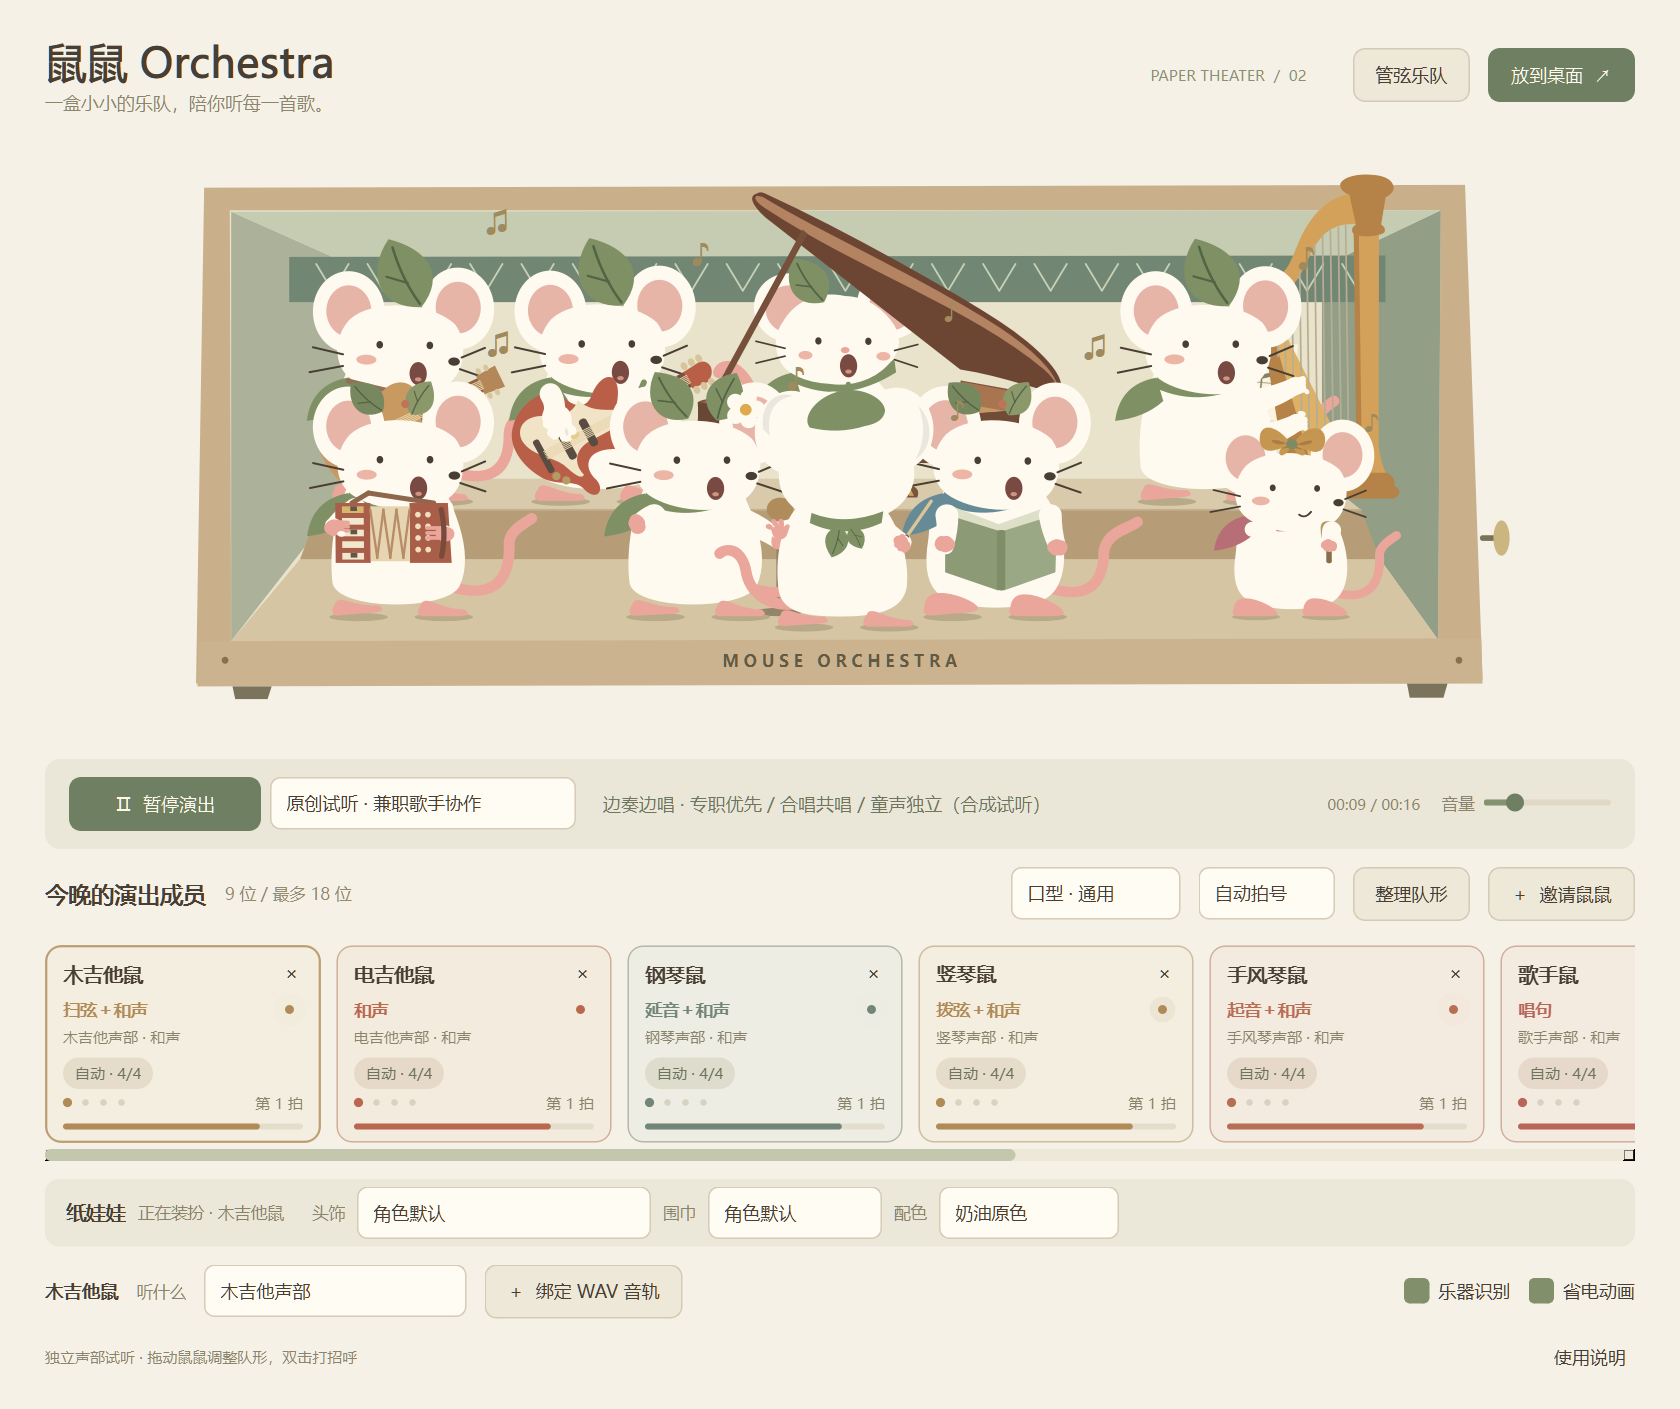
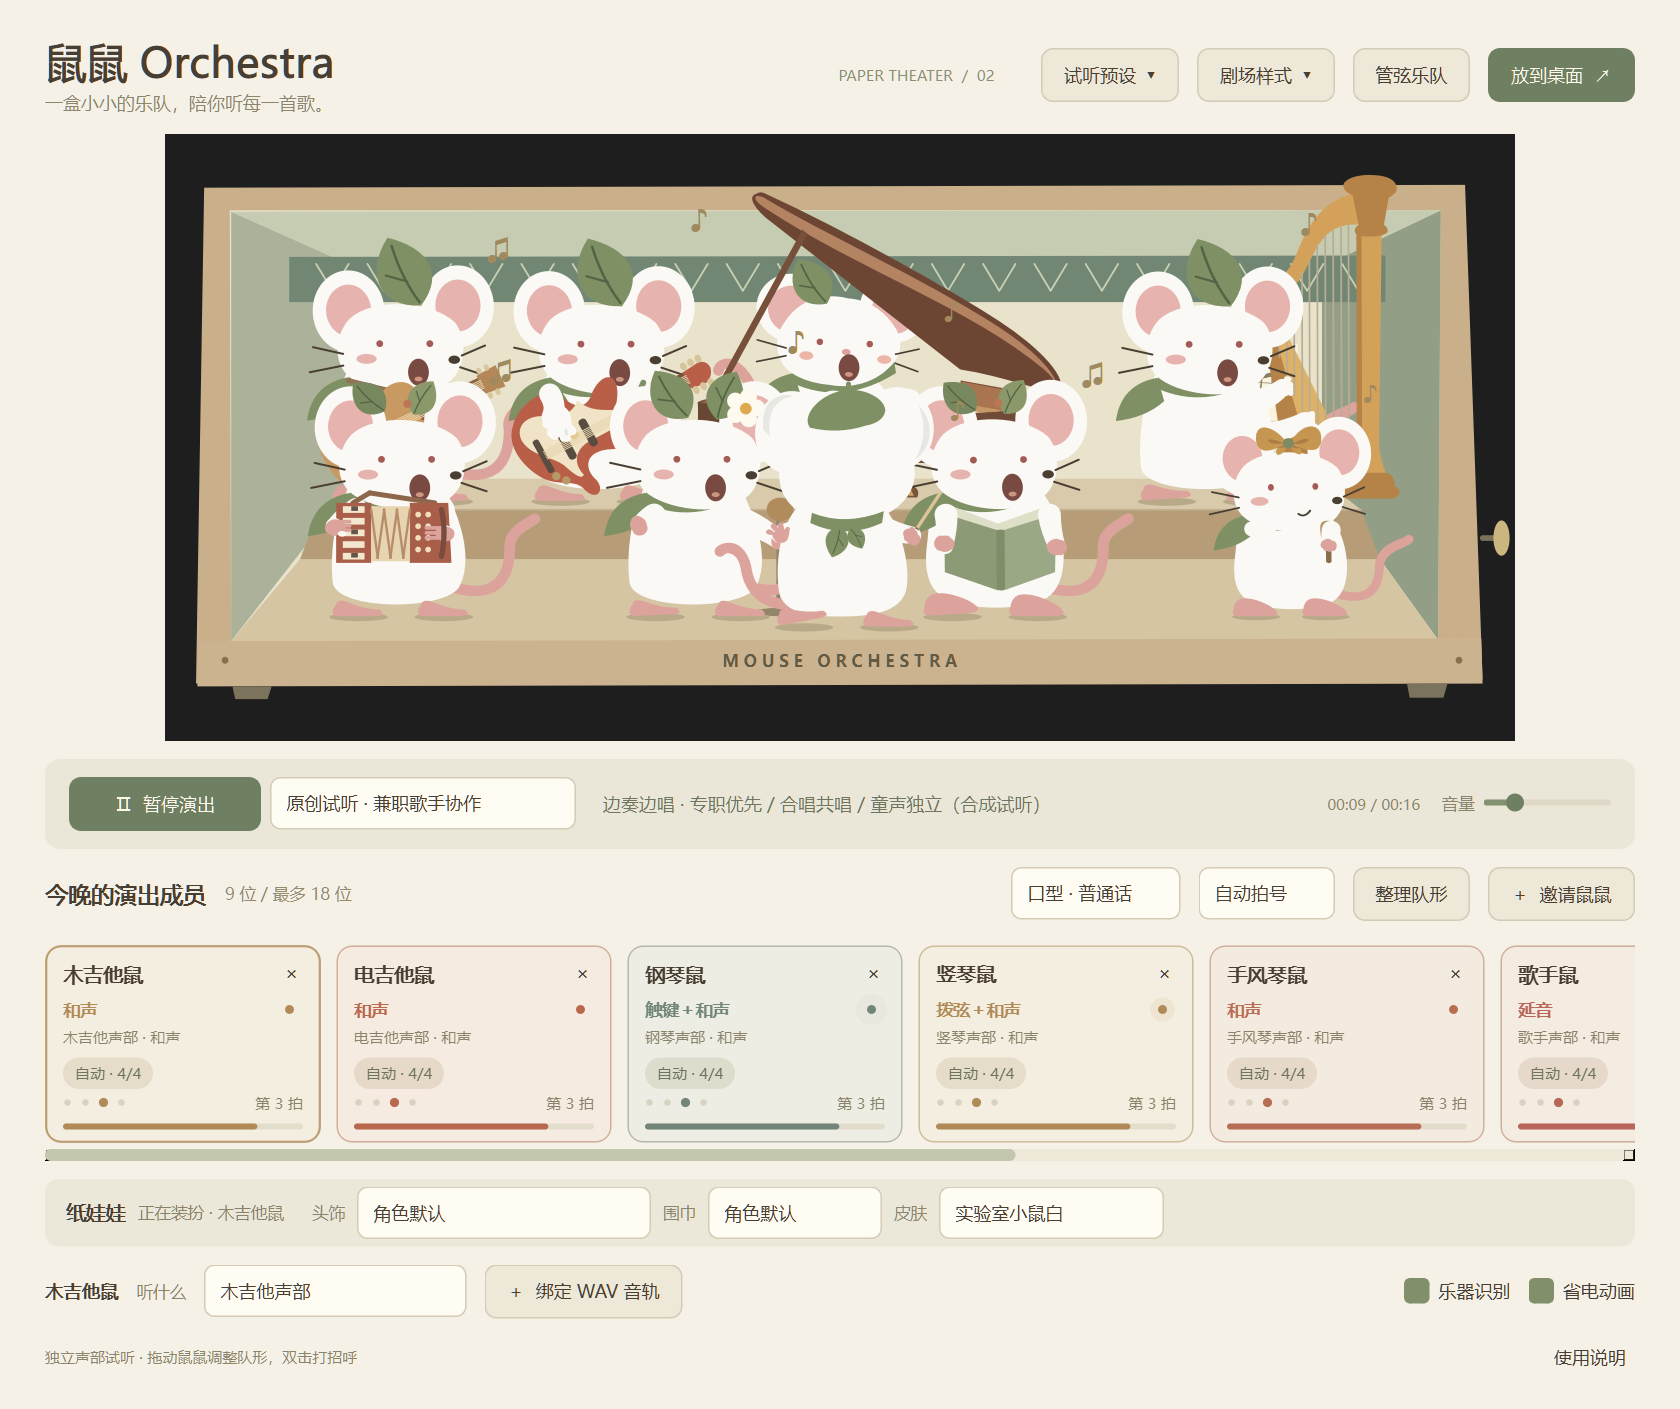
Publish theater preview and all 23 musicians in animated gallery

diff --git a/README.md b/README.md
@@ -6,7 +6,7 @@
 
 无描边的森林鼠鼠 · 可自由编队的桌面音乐盒 · 本地音频驱动
 
-[下载 Windows 预览版](https://github.com/Guzi2005/mouse-orchestra-releases/releases/tag/v0.2.40) · [快速上手](#三分钟开始演出) · [反馈问题](https://github.com/Guzi2005/mouse-orchestra-releases/issues/new?template=bug_report.yml)
+[下载 Windows 预览版](https://github.com/Guzi2005/mouse-orchestra-releases/releases/tag/v0.2.41) · [快速上手](#三分钟开始演出) · [反馈问题](https://github.com/Guzi2005/mouse-orchestra-releases/issues/new?template=bug_report.yml)
 
 ![桌面音乐盒：鼠鼠在两层纸剧场里演奏](media/desktop.png)
 
@@ -14,11 +14,15 @@
 
 指挥会给拍，鼓手会甩腕，提琴手会换弓，竖琴手会拨弦。你可以把喜欢的成员放进发条盒子，替它们换装、拖动站位，或让旋律乐手边弹边唱。
 
-**当前版本：v0.2.40 · 公开预览版 · Windows x64。** 无需安装 Python，也无需登录或联网运行。公开仓库用于下载、说明和问题反馈；应用开发源码暂未公开。
+**当前版本：v0.2.41 · 公开预览版 · Windows x64。** 无需安装 Python，也无需登录或联网运行。公开仓库用于下载、说明和问题反馈；应用开发源码暂未公开。
 
 ## 看看它们怎么演奏
 
 下方 GIF 是应用实际绘制的动作，使用原创合成声部／已知演奏事件驱动，**不代表对真人歌曲的识别准确率**。GIF 没有声音，下载后的专用试听入口可以同步听见对应声音。
+
+![所有23位鼠鼠的演奏动画，随机搭配自然皮肤、头饰与围巾](media/all-musicians.gif)
+
+**全员开演。** 23 种现有角色都在这一张总览里；五款自然皮肤与现有头饰、围巾随机组合，每只鼠在动画中保持自己的装扮。总览将各声部的原创试听片段并列展示，应用最多 18 位同时在场的限制保持。
 
 <details open>
 <summary><b>竖琴：单拨、琶音与上下扫弦</b></summary>
@@ -43,7 +47,7 @@
 
 ## 下载与运行
 
-1. 打开 [v0.2.40 下载页](https://github.com/Guzi2005/mouse-orchestra-releases/releases/tag/v0.2.40)，在 **Assets** 中下载 **MouseOrchestra-v0.2.40-Windows-x64.zip**。
+1. 打开 [v0.2.41 下载页](https://github.com/Guzi2005/mouse-orchestra-releases/releases/tag/v0.2.41)，在 **Assets** 中下载 **MouseOrchestra-v0.2.41-Windows-x64.zip**。
 2. **完整解压**，进入解压后的 `MouseOrchestra` 文件夹。
 3. 双击 `MouseOrchestra.exe`，或 `启动鼠鼠.cmd`。
 
@@ -54,7 +58,7 @@
 发布页提供 `SHA256SUMS.txt`，可在 PowerShell 核对文件：
 
 ```powershell
-Get-FileHash .\MouseOrchestra-v0.2.40-Windows-x64.zip -Algorithm SHA256
+Get-FileHash .\MouseOrchestra-v0.2.41-Windows-x64.zip -Algorithm SHA256
 ```
 
 ## 三分钟开始演出
@@ -81,6 +85,25 @@ Get-FileHash .\MouseOrchestra-v0.2.40-Windows-x64.zip -Algorithm SHA256
 ![五款自然皮肤：白化白、缎子浅灰、家鼠灰、家鼠黑、田鼠棕](media/natural-skins.png)
 
 选中鼠鼠，在纸娃娃“皮肤”或右键“装扮这只鼠鼠 → 皮肤”中更换。被毛保持原有扁平色块，不添加写实纹理；缎子是被毛类型，浅灰是这一款的配色，名称并不用于物种鉴定。
+
+## 为乐团换一个剧场
+
+顶部 **“剧场样式 ▾”** 或右键同名菜单，选择单层／双层／三层／四层／五层纸盒，或三款经典舞台。当前双层仍为默认样式。
+
+**经典合唱台**：后景幕布、左右各三层阶台和中央通道；歌手／和声／小小上阶台，乐器与指挥在底层，指挥在中央最前。**镜框剧院**是侧边束起红幕的单层前台；**室内音乐厅**以木质音墙搭配双层乐队。
+
+![幕布双翼合唱台：上方合唱，下方乐手与指挥](media/theater-choir.png)
+
+<details>
+<summary><b>五层纸盒和红幕剧院</b></summary>
+
+![五层纸盒：箱体增高，鼠鼠保持宽度比例](media/theater-five.png)
+
+![红幕镜框剧院](media/theater-red.png)
+
+</details>
+
+鼠鼠可在实体台阶间拖动，各款剧场分别记住手动站位，切回来恢复已有排布。“整理队形”重新编队；新增成员按当前剧场补位。多层箱体适度增高，桌面三档也同步高度；排练室的高箱体可滚动查看，成员卡片保持在下方。单层适合较少成员，人数很多时可改用多层。
 
 ## 曲目与阵容预设
 
@@ -114,7 +137,7 @@ Get-FileHash .\MouseOrchestra-v0.2.40-Windows-x64.zip -Algorithm SHA256
 
 主唱、和声、小小的类别可以并存，但自然混音里的多位歌手不能被逐人精确分配。只有一位成人可唱成员时会合并成人声乐能量、采用中性口型；中文／日语／通用元音选项是声学口型近似，不是歌词识别或精确唇读。“童声”表示音色特征，不证明演唱者年龄。
 
-**本版验证：** 110 项回归通过，包含实际播放和 Windows 回环采集；兼职声乐流程检查了 384 个原生帧与 8 个已知录音／受控混合场景。它们是功能与回归证据，不是通用识别准确率。
+**本版验证：** 112 项回归通过，包含实际播放和 Windows 回环采集；兼职声乐流程检查了 384 个原生帧与 8 个已知录音／受控混合场景。它们是功能与回归证据，不是通用识别准确率。
 
 ## 常见问题
 

diff --git a/RELEASE_NOTES.md b/RELEASE_NOTES.md
@@ -1,10 +1,18 @@
-# 鼠鼠 Orchestra v0.2.40 · 五款自然皮肤
+# 鼠鼠 Orchestra v0.2.41 · 多层纸盒与经典舞台
+
+新增八款剧场：初代单层、当前双层、三/四/五层纸盒，幕布双翼合唱台、红幕镜框剧院、木质室内音乐厅。顶部或右键“剧场样式”切换，每款分别保留手动站位。
+
+合唱台两侧各有三层阶台，歌唱成员上侧翼，乐器与指挥在底层，指挥中央最前；鼠鼠拖拽落在实体台面。多层箱体适度增高、鼠的宽度比例保持，排练室可滚动查看，桌面小/中/大同步高度。
+
+112项完整回归、八款原生舞台和实际拖拽/配置/桌面合同通过，邀请成员规则追加针对复验；便携包的经典合唱/五层/单层与原有试听实际启动另验。音轨、身份模型和鼠动作没有变更。
+
+README新增全员演奏GIF：23种现有角色并列展示，五款自然皮肤与头饰、围巾随机搭配。应用原生美术和演奏控制器、原创试听片段驱动；展示不等于真人混音的识别准确率，也不改变18位在场上限。
 
 新增实验室小鼠白、缎子鼠浅灰、家鼠灰、家鼠黑、田鼠棕，选中成员后在纸娃娃「皮肤」或右键装扮中选择。旧配色配置继续保留。
 
 一盒可自由编队的森林鼠鼠乐团：本地监听音乐、拖拽站位、换装、两层纸剧场，以及边奏边唱的兼职歌手。
 
-**下载 `MouseOrchestra-v0.2.40-Windows-x64.zip`，完整解压后运行 `MouseOrchestra.exe`。** Windows 10/11 x64，无需安装 Python。保留 `_internal` 文件夹；自动生成的 Source code 压缩包只有文档和图片，不是应用。
+**下载 `MouseOrchestra-v0.2.41-Windows-x64.zip`，完整解压后运行 `MouseOrchestra.exe`。** Windows 10/11 x64，无需安装 Python。保留 `_internal` 文件夹；自动生成的 Source code 压缩包只有文档和图片，不是应用。
 
 右上角“试听预设”新增三首原创曲：抒情合唱《把灯留给你》、拨扫律动《莓果跳跳》、三拍竖琴《月光落叶》，保留原有室内曲；载入对应编制，可撤销恢复成员／站位／声源。独立PCM与同源演奏事件驱动，场上缺席角色不参与混音。
 
@@ -12,14 +20,14 @@
 
 保留v0.2.38的23角色、纸娃娃、同步沙锤、竖琴指法、分层菜单、管弦编队与八类乐器兼职声乐。详见README的截图、GIF和上手指南。
 
-这是 **Pre-release**。复杂混音采用轻量类别与音响特征近似，仍可能误动、漏奏；没有逐乐器／逐人分轨。口型不是歌词识别，童声特征不证明年龄。110 项回归、三首原创曲288原生帧及既有录音场景为功能验证，不代表通用识别准确率。
+这是 **Pre-release**。复杂混音采用轻量类别与音响特征近似，仍可能误动、漏奏；没有逐乐器／逐人分轨。口型不是歌词识别，童声特征不证明年龄。112 项回归、三首原创曲288原生帧及既有录音场景为功能验证，不代表通用识别准确率。
 
 应用开发仓库保持私有，此公开仓库提供发行包、文档与反馈。包内实验音色权重采用非商业许可，请阅读 `USAGE.md` 和 `THIRD_PARTY_NOTICES.md`。Qt/PySide6 采用动态库，另附对应第三方源码；不是本项目应用源码。
 
 附件：
 
-- `MouseOrchestra-v0.2.40-Windows-x64.zip` — 应用便携包。
-- `MouseOrchestra-v0.2.40-third-party-sources.zip` — 对应 Qt/PySide6 第三方源码与构建／替换说明。
+- `MouseOrchestra-v0.2.41-Windows-x64.zip` — 应用便携包。
+- `MouseOrchestra-v0.2.41-third-party-sources.zip` — 对应 Qt/PySide6 第三方源码与构建／替换说明。
 - `SHA256SUMS.txt` — 上述附件的 SHA-256。
 
 软件未签名。可先核对来源和 SHA-256；有问题请通过 Issues 反馈，无需关闭系统防护。

diff --git a/CHANGELOG.md b/CHANGELOG.md
@@ -1,5 +1,13 @@
 # 公开发行更新
 
+## v0.2.41 · 2026-10-13 · 多层纸盒与经典舞台
+
+- 单至五层纸盒，以及幕布双翼合唱台、红幕镜框剧院、木质室内音乐厅；当前双层继续默认。
+- 真实台阶与布局共用数据，合唱台的歌唱成员上侧翼、乐器/指挥在底层；每款分别记忆手动站位，新成员补位不挪动其他鼠。
+- 多层加高、鼠宽度比例保持，桌面尺寸/屏幕位置同步，排练室可滚动查看高舞台。
+- 八款原生舞台审查、两项真实拖拽/配置/桌面合同、112项完整回归及邀请规则针对复验通过，便携另验。音乐识别与音轨不变。
+- README全员演奏GIF：23种现有角色、五款自然皮肤及随机头饰/围巾，192帧原生动作与原创声部，应用18位在场上限保持。
+
 ## v0.2.40 · 2026-10-13 · 五款自然皮肤
 
 - 实验室小鼠白、缎子鼠浅灰、家鼠灰、家鼠黑、田鼠棕作为纸娃娃/右键装扮主选项；默认新成员为实验室白，旧配色存档保持。

diff --git a/USAGE.md b/USAGE.md
@@ -1,6 +1,6 @@
 # 使用与许可说明
 
-鼠鼠 Orchestra v0.2.40 于 2026-10-13 提供公开、免费的 Windows 预览下载。项目作者：Guzi2005。
+鼠鼠 Orchestra v0.2.41 于 2026-10-13 提供公开、免费的 Windows 预览下载。项目作者：Guzi2005。
 
 公开仓库提供发行包、文档、截图与反馈入口。应用开发源码尚未公开，本次发布不授予对项目原创程序、图形和文档的 MIT、GPL 或其他开源许可；未明确授予的原创内容权利保留。第三方许可单独适用，不能用本说明限制其已授予的权利。
 
